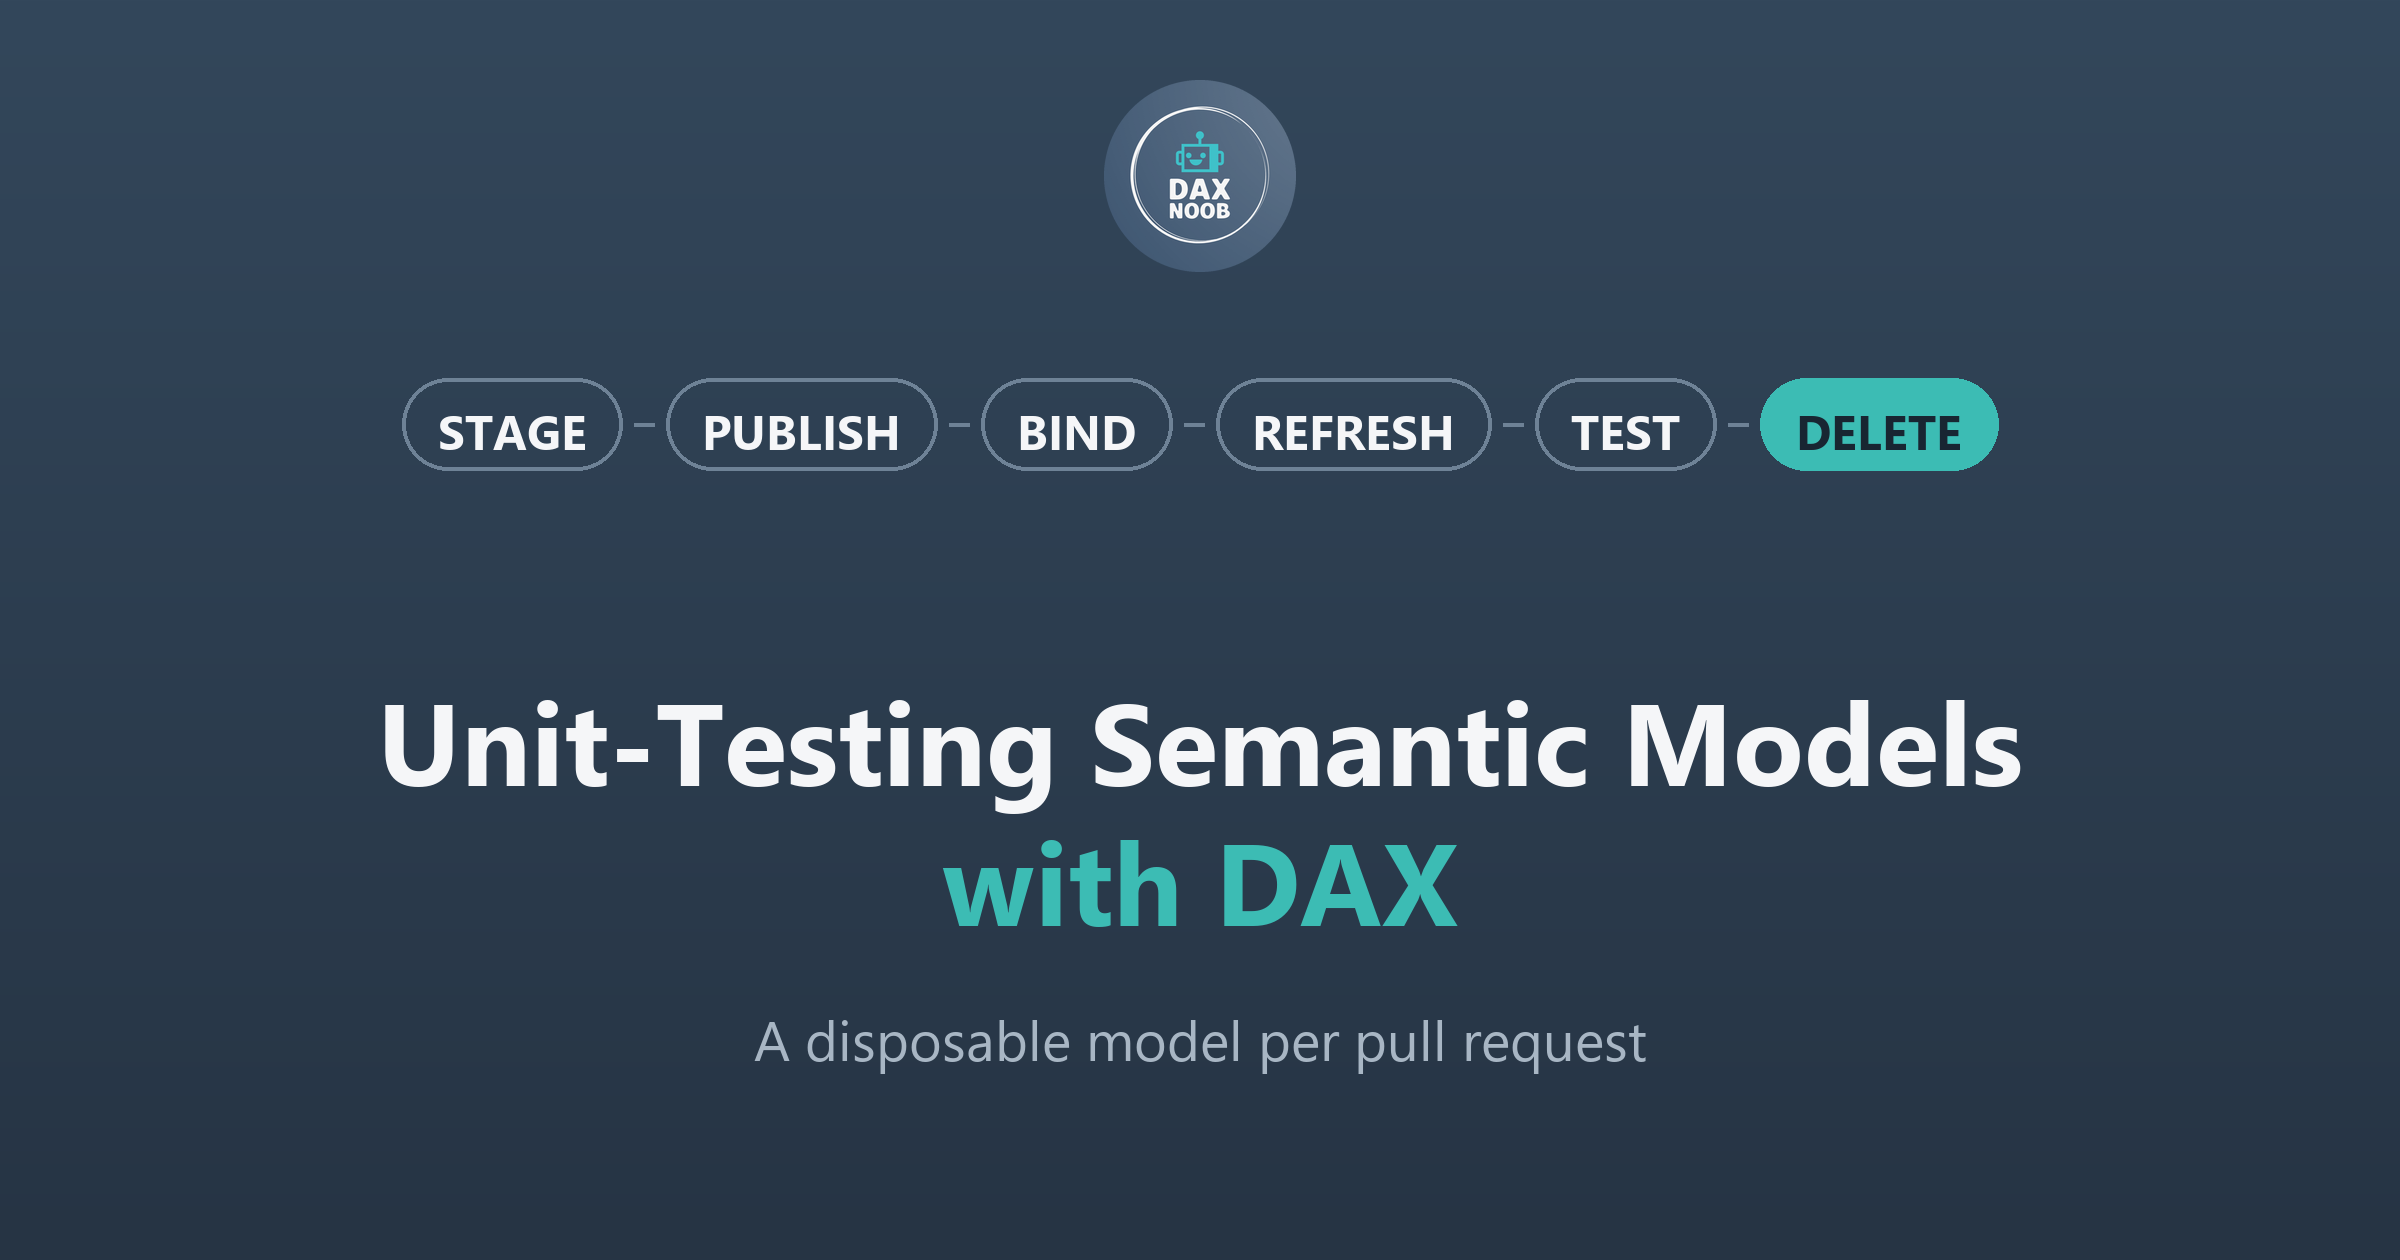
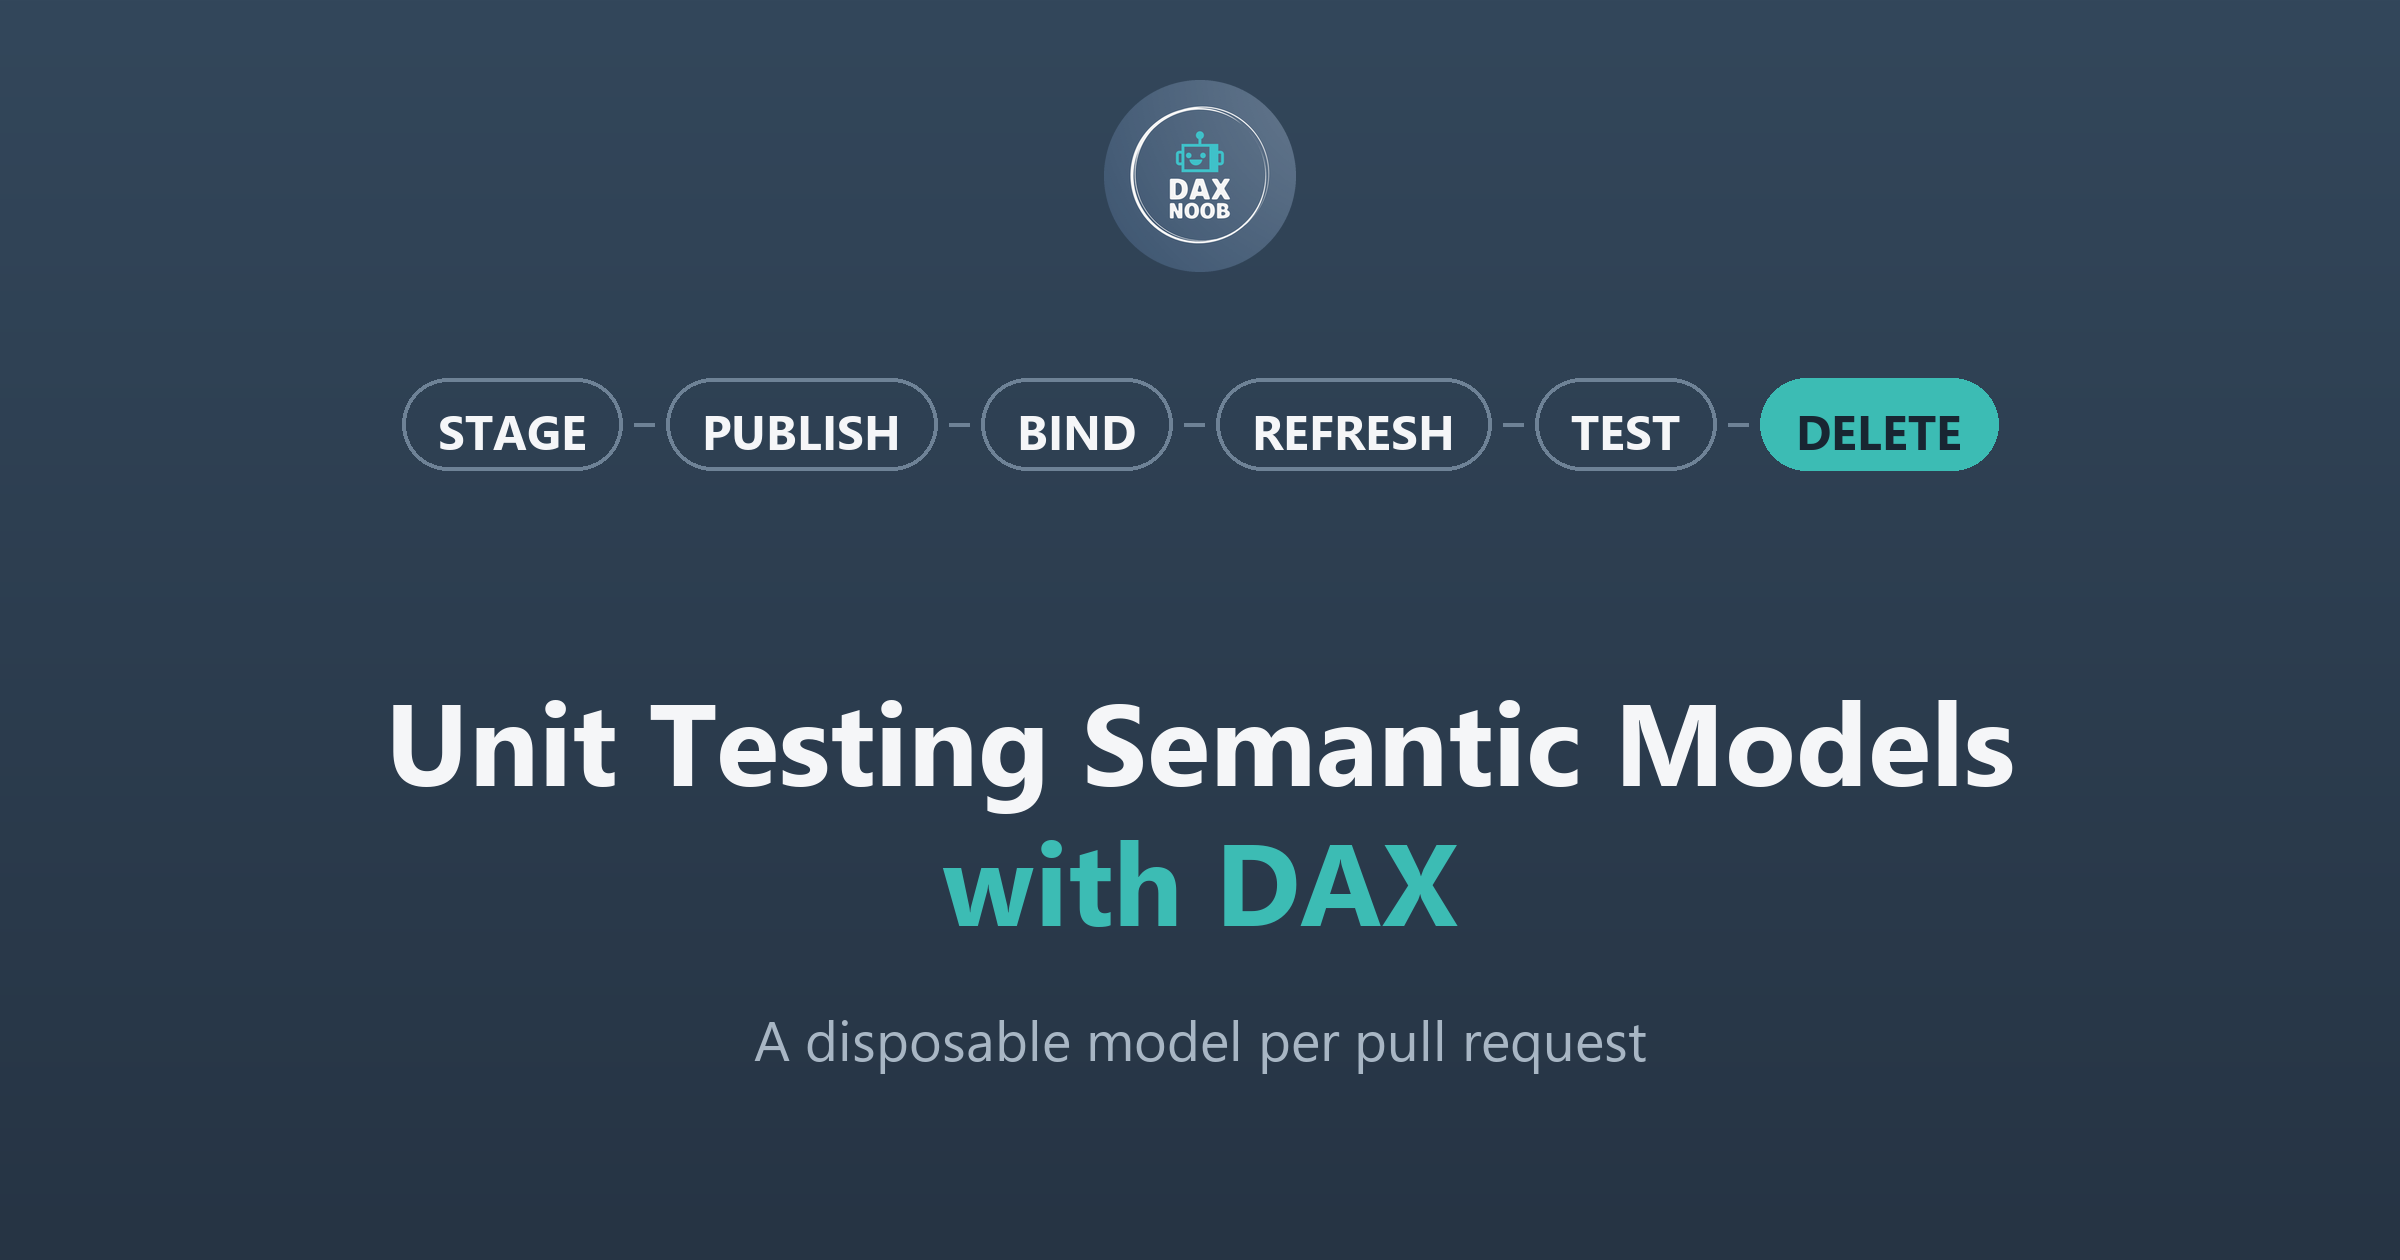
Shorter post title
Copilot-Session: eb7fe3f7-32f3-432d-861a-31c9718b73c2

Changed region(s): [[0.1562, 0.5571, 0.8438, 0.65]]

diff --git a/README.md b/README.md
@@ -10,7 +10,7 @@ Source and companion code for **[daxnoob.blog](https://daxnoob.blog/)** — Just
 | Resource | Article |
 |---|---|
 | [`fabric-semantic-model-starter/`](resources/fabric-semantic-model-starter/) | [Open-source starter →](https://daxnoob.blog/starter) |
-| [`semantic-model-tests/`](resources/semantic-model-tests/) | [Unit-Testing Power BI Semantic Models with DAX Assertions over XMLA](https://daxnoob.blog/semantic-model-dax-testing/) |
+| [`semantic-model-tests/`](resources/semantic-model-tests/) | [Unit Testing Semantic Models with DAX](https://daxnoob.blog/semantic-model-dax-testing/) |
 | [`agentic-power-query-development/`](resources/agentic-power-query-development/) | [Iterating on Power Query with an LLM](https://daxnoob.blog/agentic-power-query-development/) |
 | [`extending-fabric-cicd/`](resources/extending-fabric-cicd/) | [Extending fabric-cicd with Pre and Post-Processing Operations](https://daxnoob.blog/extending-fabric-cicd-with-pre-post-processing/) |
 | [`remove-unused-measures/`](resources/remove-unused-measures/) | [Report Maintenance: Remove Unused Report Measures](https://daxnoob.blog/report-maintenance-remove-unused-report-measures/) |

diff --git a/docs/posts/2026/semantic-model-dax-testing.md b/docs/posts/2026/semantic-model-dax-testing.md
@@ -1,5 +1,5 @@
 ---
-title: "Unit-Testing Power BI Semantic Models with DAX Assertions over XMLA"
+title: "Unit Testing Semantic Models with DAX"
 description: "A tool that runs YAML-defined DAX assertions against your semantic models over the XMLA endpoint, and on Direct Lake, deploys a temporary copy of the model for each pull request to test the change."
 draft: true
 date:
